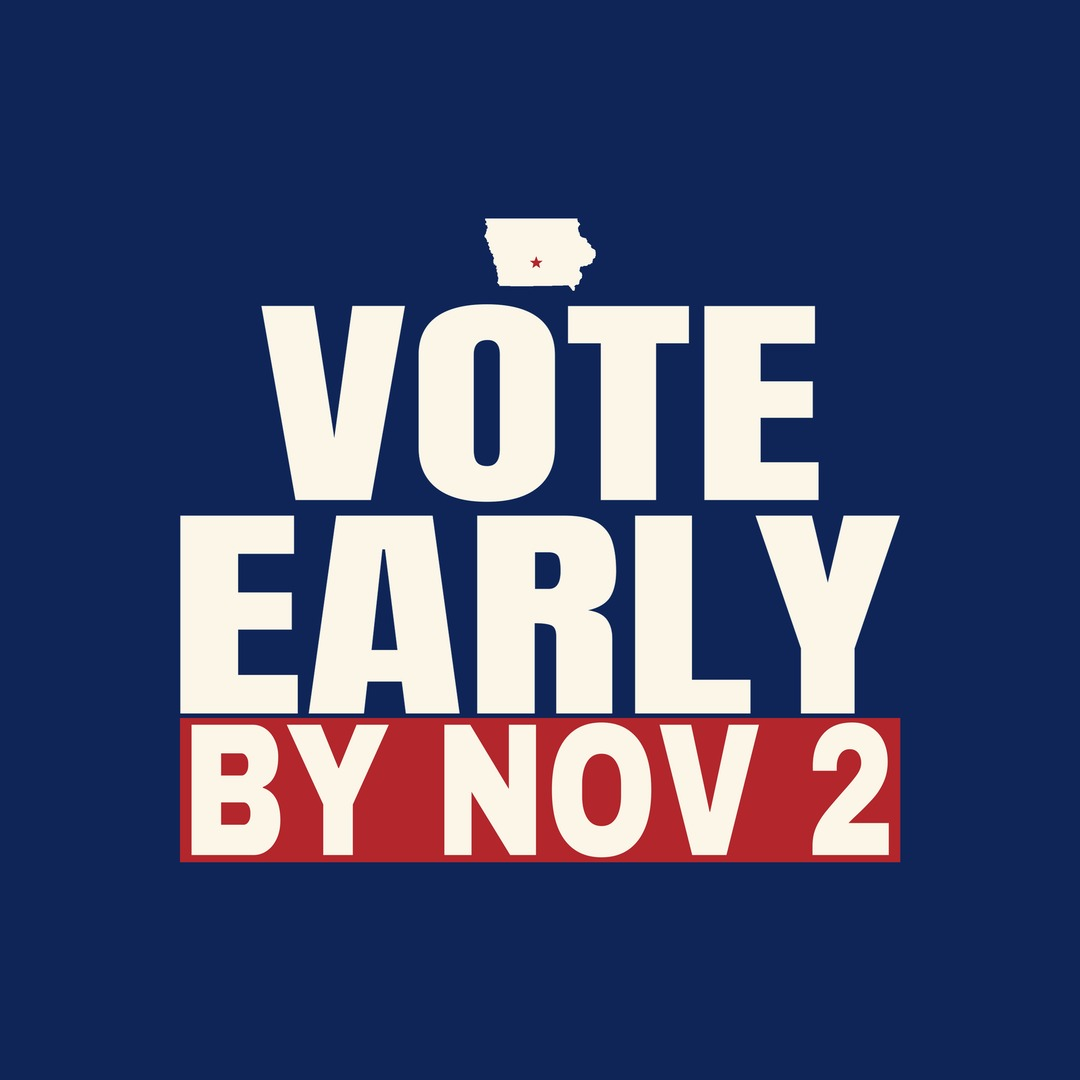
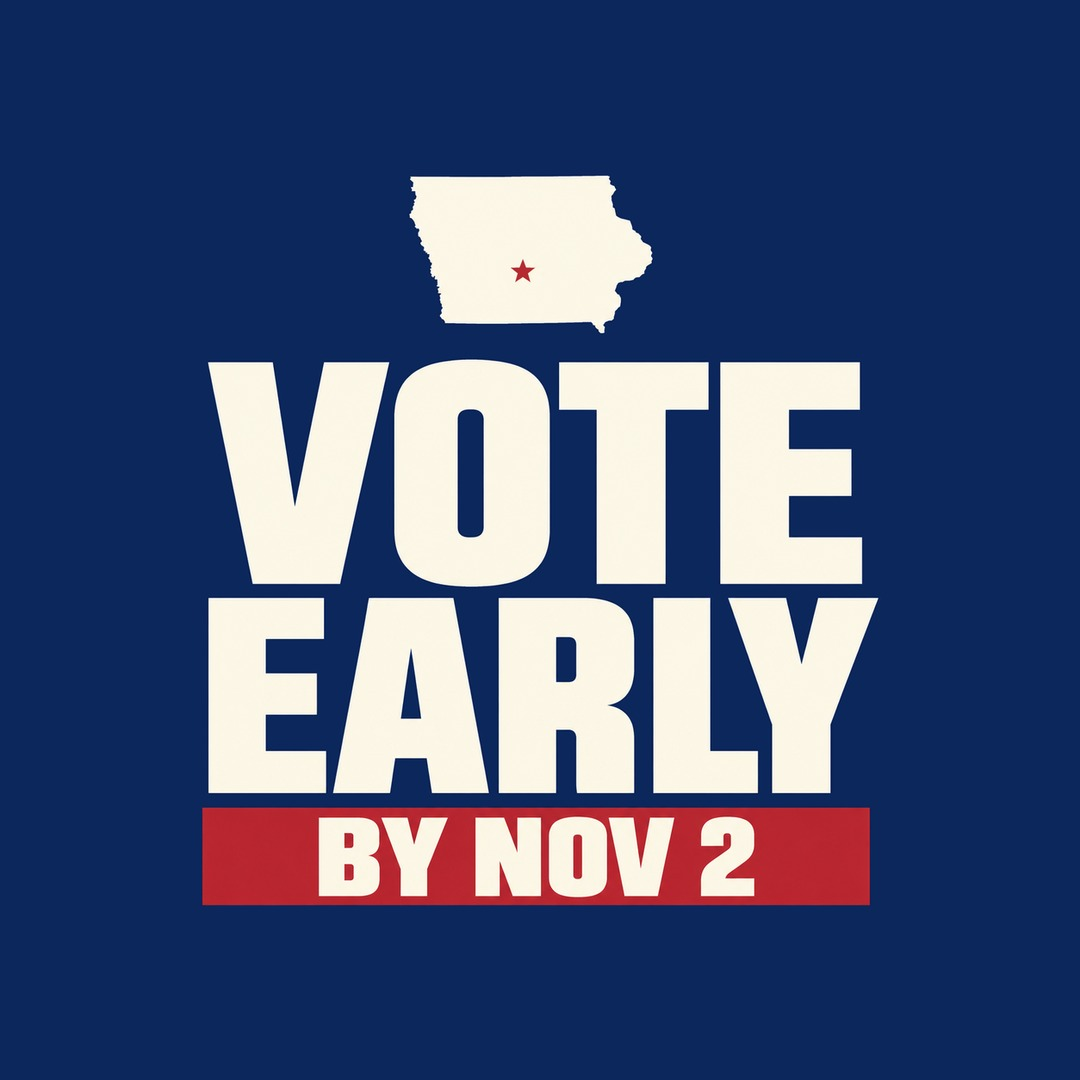
Iowa: 10 new ready-mades from Codex; retire the earlier set
Claude-Session: https://claude.ai/code/session_01U4jJBSt3CnGjJYrtPzNn5q

Changed region(s): [[0.1528, 0.1528, 0.8556, 0.8556]]

diff --git a/site/index.php b/site/index.php
@@ -83,7 +83,7 @@ function vote_files( $abbr ) {
 
 // The state hero shows one standout ready-made, tilted (October 20, Garrett): the design named here,
 // or the first in the set. Numbers match <abbr>-vote-N.jpg.
-const VOTE_HERO = array( 'MS' => 5, 'MI' => 7, 'ID' => 7, 'NJ' => 5, 'OR' => 5, 'MN' => 6, 'NE' => 6, 'AL' => 6, 'AZ' => 6, 'CT' => 7, 'DE' => 5, 'GA' => 5, 'FL' => 5, 'HI' => 6, 'IL' => 8, 'AR' => 6, 'IN' => 5, 'KY' => 8, 'ME' => 6, 'LA' => 6 );
+const VOTE_HERO = array( 'MS' => 5, 'MI' => 7, 'ID' => 7, 'NJ' => 5, 'OR' => 5, 'MN' => 6, 'NE' => 6, 'AL' => 6, 'AZ' => 6, 'CT' => 7, 'DE' => 5, 'GA' => 5, 'FL' => 5, 'HI' => 6, 'IL' => 8, 'AR' => 6, 'IN' => 5, 'KY' => 8, 'ME' => 6, 'LA' => 6, 'IA' => 8 );
 function vote_hero_file( $abbr ) {
 	$n = VOTE_HERO[ $abbr ] ?? 0;
 	$k = strtolower( $abbr );
